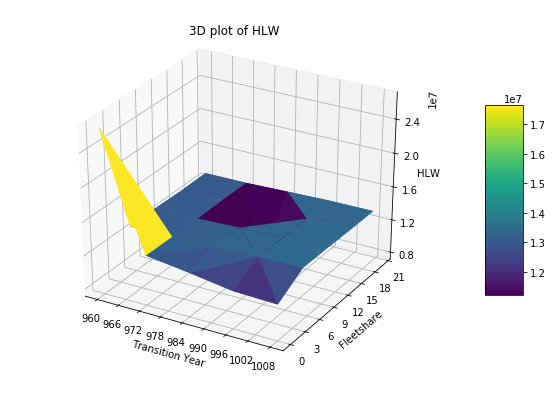
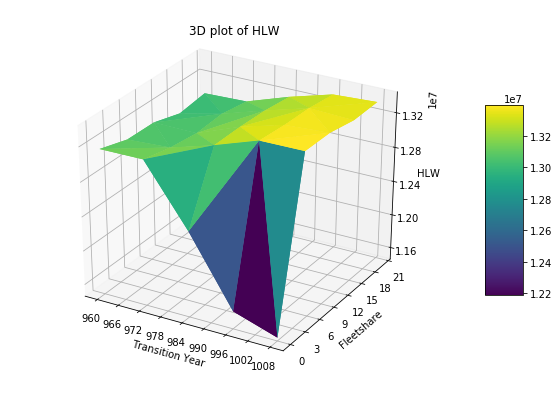
bleargh

diff --git a/chapter5.tex b/chapter5.tex
@@ -11,6 +11,7 @@ This chapter will be broken into five sections:
     \item One-at-a-time \gls{SA} results 
     \item Synergistic \gls{SA} results
     \item Global \gls{SA} results 
+    \item Main Takeaways 
 \end{enumerate}
 
 \section{Transition Scenario Specification}
@@ -550,21 +551,24 @@ ratio and transition year combination.
 25 scenarios were evaluated for a combination of fleet share ratio 
 of 0\%, 5\%, 10\%, 15\%, 20\% PWR MOX and advanced reactor introduction 
 date of year 80 to 84 years.
-Figures \ref{fig:cyclus_3d_hlw}, \ref{fig:cyclus_3d_depu}, and \ref{fig:cyclus_3d_ic}
+Figures \ref{fig:cyclus_3d_hlw}, \ref{fig:cyclus_3d_depu}, and 
+\ref{fig:cyclus_3d_ic}
 visualize the final amount of HLW, final amount of depleted uranium, and
 total amount of idle capacity in the scenario for varying 
 fleet share and advanced reactor introduction date values. 
 
 Figure \ref{fig:cyclus_3d_hlw} shows that for scenarios in which 
-there are less \gls{MOX} \glspl{PWR}, and when the transition begins 
+there is a smaller fleet share of \gls{MOX} \glspl{PWR}, and when the 
+transition begins 
 later in the simulation, there is less high level waste produced. 
 This is assuming that the initial \glspl{LWR} have a longer lifetime
-and thus, less reprocessing waste is produced. 
-
+and thus, advanced reactors exist in the simulation for a shorter 
+amount of time, resulting in less reprocessing waste is produced. 
+Also, \gls{MOX} \glspl{PWR} produce more \gls{HLW} than \glspl{SFR}. 
 Figure \ref{fig:cyclus_3d_depu} shows that as the introduction date 
 of advanced reactors is pushed back, more depleted uranium is produced 
-due to 
-
+due to extended lifetime of the \glspl{LWR} that utilize enriched 
+natural uranium fuel that generates depleted uranium. 
 Figure \ref{fig:cyclus_3d_ic} shows that idle capacity is minimized 
 for a later advanced reactor introduction date. 
 Having a later introduction date of advanced reactor technology ensures 
@@ -617,4 +621,46 @@ The input variables varied are: fleet share ratio,
 transition start year, and used fuel cooling time.
 The output variables considered are final amount of HLW, 
 final amount of depleted uranium, and total idle capacity. 
-Table \ref{tab:sobol} shows the results of the study. 
+Table \ref{tab:sobol} provides the sobol indices that depicts 
+the impact of variance of each input variable on each output 
+variable. 
+It provides a summary of the most influential input parameters 
+are for each output parameter. 
+Fleet share has the largest impact on 
+final HLW value while transition start year has the largest 
+impact on final depleted uranium value and the total idle 
+capacity value in the simulation. 
+Transition start year and cooling time have some influence on 
+the final value of HLW. 
+Fleet share and cooling time have no influence on the final 
+depleted uranium value. 
+    
+    \begin{table}[H]
+        \centering
+        \caption{Sobol Indices for a global sensitivity analysis study of the impact of 
+        fleet share \% of PWR MOX reactors, transition start year and cooling time on various output
+        variables: final amount of HLW, final amout of depleted uranium, and total 
+        idle capacity in the simulation}
+        \label{tab:sobol}
+            \footnotesize
+            \begin{tabularx}{\textwidth}{L|LLL}
+                \hline	
+                \textbf{Input Variables}                      & \multicolumn{3}{c}{\textbf{Sobol Indices for Output Variables}}   \\ \hline
+                & \textbf{Final HLW} & \textbf{Final depleted uranium} & \textbf{Total idle capacity} \\ \hline
+                \textbf{Fleet Share} & 0.828     & 0                      & 0.00509             \\
+                \textbf{Transition Start Year}                & 0.381     & 0.971                  & 1.505               \\
+                \textbf{Cooling Time}                         & 0.126     & 0                      & 0                   \\ \hline
+
+            \end{tabularx}
+    \end{table}
+
+\section{Main Takeaways}
+The OAT, synergistic, and global sensitivity analysis methods 
+are all important for analyzing \gls{NFC} transition scenarios. 
+Their use is in different forms. 
+Global sensitivity analysis should be the first analysis conducted to 
+determine which input variables are key to influencing the output 
+variables of interest. 
+OAT and synergistic sensitivity analysis can then be used together to 
+do further analysis to determine the trends and quantitative impacts 
+of specific input variables on specific output variables. 

diff --git a/ms-thesis.tex b/ms-thesis.tex
@@ -166,10 +166,10 @@ dedication
 %%%%%%%%%%%%%%%%%%%%%%%%%%%%%%%%%%%%%%%%%%%%%%%%%%%%%%%%%%%%%%%%%%%%%%%%%%%%%%%
 % INSERT REAL CONTENT HERE
 %
-%\include{intro}	% for INTRODUCTION in "intro.tex"
-%\include{chapter2}
-%\include{chapter3}
-%\include{chapter4}
+\include{intro}	% for INTRODUCTION in "intro.tex"
+\include{chapter2}
+\include{chapter3}
+\include{chapter4}
 \include{chapter5}
 \include{concl}
 

diff --git a/concl.tex b/concl.tex
@@ -6,6 +6,8 @@
 % more comparisons of cyclus and dymond in this section 
 %or after demonstration. 
 
+In this thesis, a new capability in \Cyclus was introduced 
+
 \Cyclus is shown to be flexible in setting up successful transition 
 scenarios when input parameters are slightly varied.
 DYMOND is able to successfully set up a transition scenario, if the 
